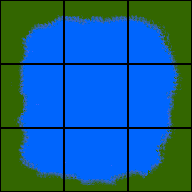
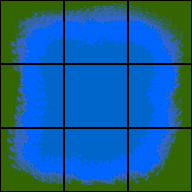
out of index now is treated as connected mapTile

diff --git a/core/MapCreator.java b/core/MapCreator.java
@@ -68,8 +68,10 @@ public class MapCreator {
 								y--;
 							}
 							if(inBounds(map, x, y)) {
-								System.out.println("x="+x+" y="+y);
 								map[x][y] = new MapTile(x, y, MapTile.TYPE_LIQUID, MapTile.NAME_RIVER);
+//								if(inBounds(map, x, y+1)) {
+//									map[x][y+1] = new MapTile(x, y, MapTile.TYPE_LIQUID, MapTile.NAME_RIVER);
+//								}
 							} else {
 								if(x<minRiverLength) {
 									i--;

diff --git a/map/MapImage.java b/map/MapImage.java
@@ -367,6 +367,7 @@ public class MapImage {
 				flag = true;
 			}
 		} catch (IndexOutOfBoundsException iex) {
+			flag = true;
 		}
 		return flag;
 	}
